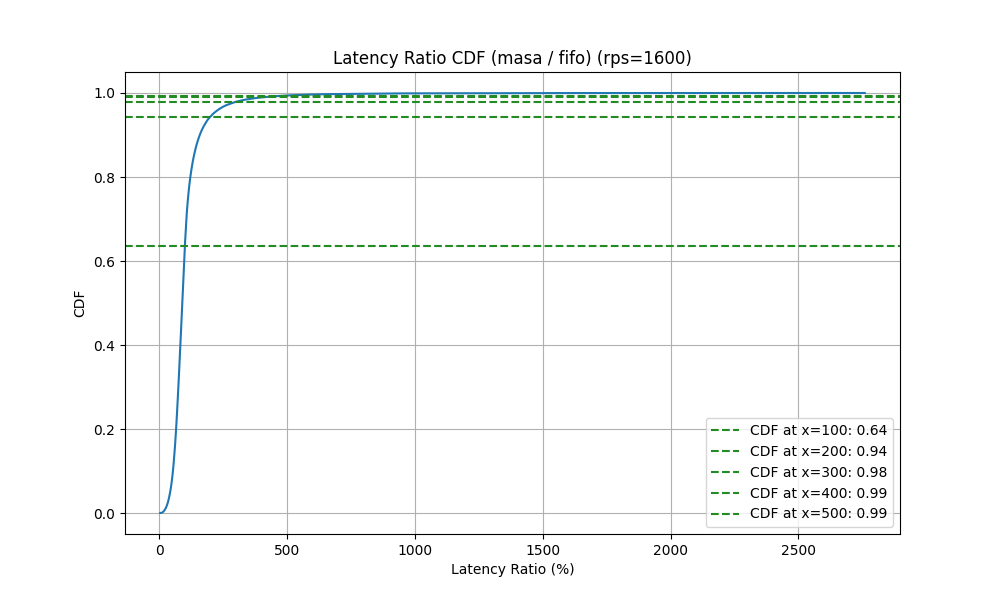
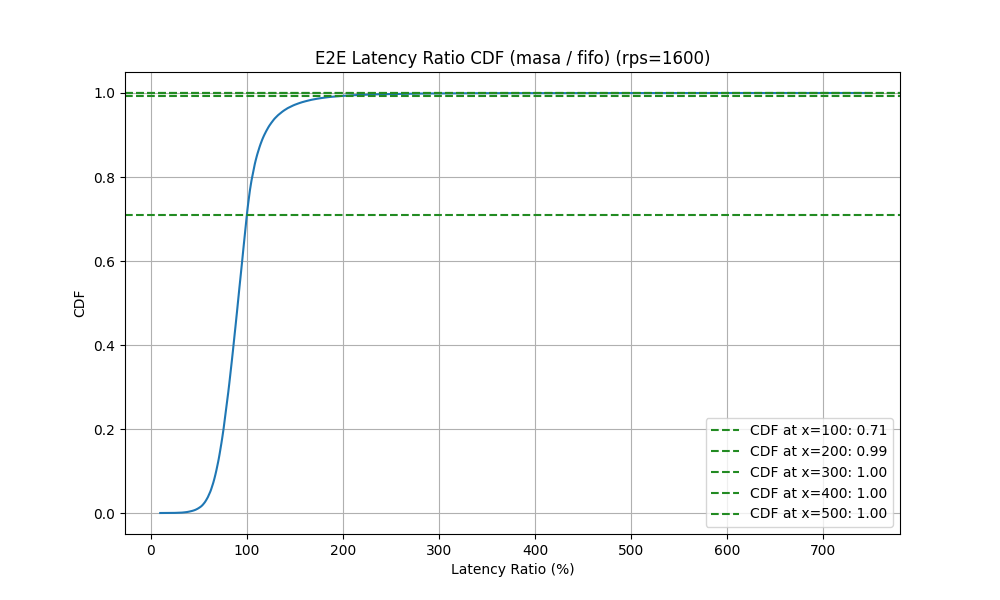
chore: Fix consistent request id in two modes

diff --git a/reboot/snippets/flat/plot_e2e.py b/reboot/snippets/flat/plot_e2e.py
@@ -7,14 +7,43 @@ import pandas as pd
 rps = 1600
 modes = ["masa", "fifo"]
 
-results: Dict[str, List[int]] = {"masa": [], "fifo": []}
-
+results_raw: Dict[str, List] = {}
 for mode in modes:
     file = f"r{rps}_{mode}.csv"
     df = pd.read_csv(file)
 
-    latencies = list(df["latency"])
-    results[mode] = latencies
+    spans: List[Dict] = []
+    for _, row in df.iterrows():
+        id = row["request_id"]
+        span = row["span"]
+        slo = row["slo"]
+        latency = row["latency"]
+        spans.append({"id": id, "span": span, "slo": slo, "latency": latency})
+    results_raw[mode] = spans
+
+ids_to_modes: Dict[int, List[str]] = {}
+for mode in modes:
+    spans = results_raw[mode]
+    for span in spans:
+        id = span["id"]
+        ids_to_modes.setdefault(id, []).append(mode)
+
+common_ids = set(
+    id for id, modes in ids_to_modes.items() if len(modes) == 2 and modes[0] != modes[1]
+)
+
+# [TODO] Output this to a separate binary.
+results_e2e: Dict[str, List[int]] = {"masa": [], "fifo": []}
+for mode in modes:
+    spans_filtered = []
+    spans = results_raw[mode]
+    for span in spans:
+        id = span["id"]
+        latency = span["latency"]
+        if id in common_ids:
+            spans_filtered.append((id, latency))
+    spans_filtered.sort(key=lambda x: x[0])
+    results_e2e[mode] = [x[1] for x in spans_filtered]
 
 
 def plot_cdf(results: Dict[str, List[int]], title: str, fig_name: str):
@@ -51,8 +80,9 @@ def plot_pdf(results: Dict[str, List[int]], title: str, fig_name: str):
     plt.show()
 
 
-plot_cdf(results, f"Latency CDF (rps={rps})", f"fig_e2e_cdf.png")
-plot_pdf(results, f"Latency PDF (rps={rps})", f"fig_e2e_pdf.png")
+plot_cdf(results_e2e, f"E2E Latency CDF (rps={rps})", f"fig_e2e_cdf.png")
+
+plot_pdf(results_e2e, f"E2E Latency PDF (rps={rps})", f"fig_e2e_pdf.png")
 
 
 def plot_ratio_cdf(results: List[float], title: str, fig_name: str):
@@ -102,17 +132,47 @@ def plot_ratio_pdf(results: List[float], title: str, fig_name: str):
 
 
 results_ratio: List[float] = []
-for i in range(len(results["masa"])):
-    results_ratio.append(results["masa"][i] * 100 / results["fifo"][i])
+for i in range(len(results_e2e["masa"])):
+    masa = results_e2e["masa"][i]
+    fifo = results_e2e["fifo"][i]
+    ratio = masa / fifo * 100
+    results_ratio.append(ratio)
 
 plot_ratio_cdf(
     results_ratio,
-    f"Latency Ratio CDF (masa / fifo) (rps={rps})",
+    f"E2E Latency Ratio CDF (masa / fifo) (rps={rps})",
     f"fig_e2e_ratio_cdf.png",
 )
 
 plot_ratio_pdf(
     results_ratio,
-    f"Latency Ratio PDF (masa / fifo) (rps={rps})",
+    f"E2E Latency Ratio PDF (masa / fifo) (rps={rps})",
     f"fig_e2e_ratio_pdf.png",
+)
+
+# [TODO] Plot a 2D histogram of masa vs fifo latencies.
+results_slower: Dict[str, List[int]] = {"masa": [], "fifo": []}
+results_faster: Dict[str, List[int]] = {"masa": [], "fifo": []}
+
+for i in range(len(results_e2e["masa"])):
+    masa = results_e2e["masa"][i]
+    fifo = results_e2e["fifo"][i]
+    if masa > fifo:
+        results_slower["masa"].append(masa)
+        results_slower["fifo"].append(fifo)
+    else:
+        results_faster["masa"].append(masa)
+        results_faster["fifo"].append(fifo)
+
+plot_cdf(
+    results_slower, f"E2E Slower Latency CDF (rps={rps})", f"fig_e2e_slower_cdf.png"
+)
+plot_pdf(
+    results_slower, f"E2E Slower Latency PDF (rps={rps})", f"fig_e2e_slower_pdf.png"
+)
+plot_cdf(
+    results_faster, f"E2E Faster Latency CDF (rps={rps})", f"fig_e2e_faster_cdf.png"
+)
+plot_pdf(
+    results_faster, f"E2E Faster Latency PDF (rps={rps})", f"fig_e2e_faster_pdf.png"
 )

diff --git a/reboot/snippets/flat/plot_queueing.py b/reboot/snippets/flat/plot_queueing.py
@@ -64,30 +64,31 @@ def plot_pdf(results: Dict[str, List[int]], title: str, fig_name: str):
     plt.show()
 
 
-results_second_hop_queueing: Dict[str, List[int]] = {"masa": [], "fifo": []}
-for mode in modes:
-    n_dp = 0
-    id_to_spans = results_raw[mode]
-    for id, spans in id_to_spans.items():
-        if len(spans) == 2:
-            n_dp += 1
-            # [NOTE] Depending on the definition of "latency" and "elapse".
-            # queueing_latency = spans[1]["latency"] - spans[1]["elapse"] - spans[0]["latency"]
-            queueing_latency = spans[1]["latency"] - spans[0]["latency"]
-            results_second_hop_queueing[mode].append(queueing_latency)
-    print(f"{mode}: {n_dp} data points")
+# results_second_hop_queueing: Dict[str, List[int]] = {"masa": [], "fifo": []}
+# for mode in modes:
+#     n_dp = 0
+#     id_to_spans = results_raw[mode]
+#     for id, spans in id_to_spans.items():
+#         if len(spans) == 2:
+#             n_dp += 1
+#             # [NOTE] Depending on the definition of "latency" and "elapse".
+#             # queueing_latency = spans[1]["latency"] - spans[1]["elapse"] - spans[0]["latency"]
+#             queueing_latency = spans[1]["latency"] - spans[0]["latency"]
+#             results_second_hop_queueing[mode].append(queueing_latency)
+#     pctl_dp = n_dp / len(id_to_spans)
+#     print(f"{mode}: {round(pctl_dp*100)}% data points")
 
-plot_cdf(
-    results_second_hop_queueing,
-    f"Queueing Latency at Second Hop (rps={rps})",
-    "fig_second_hop_queueing_cdf.png",
-)
+# plot_cdf(
+#     results_second_hop_queueing,
+#     f"Queueing Latency at Second Hop (rps={rps})",
+#     "fig_second_hop_queueing_cdf.png",
+# )
 
-plot_pdf(
-    results_second_hop_queueing,
-    f"Queueing Latency at Second Hop (rps={rps})",
-    "fig_second_hop_queueing_pdf.png",
-)
+# plot_pdf(
+#     results_second_hop_queueing,
+#     f"Queueing Latency at Second Hop (rps={rps})",
+#     "fig_second_hop_queueing_pdf.png",
+# )
 
 
 def plot_ratio_cdf(results: List[float], title: str, fig_name: str):
@@ -136,22 +137,21 @@ def plot_ratio_pdf(results: List[float], title: str, fig_name: str):
     plt.show()
 
 
-results_second_hop_queueing_ratio: List[float] = []
-for i in range(len(results_second_hop_queueing["masa"])):
-    results_second_hop_queueing_ratio.append(
-        results_second_hop_queueing["masa"][i]
-        * 100
-        / results_second_hop_queueing["fifo"][i]
-    )
+# results_second_hop_queueing_ratio: List[float] = []
+# for i in range(len(results_second_hop_queueing["masa"])):
+#     masa = results_second_hop_queueing["masa"][i]
+#     fifo = results_second_hop_queueing["fifo"][i]
+#     ratio = masa / fifo * 100
+#     results_second_hop_queueing_ratio.append(ratio)
 
-plot_ratio_cdf(
-    results_second_hop_queueing_ratio,
-    f"Queueing Latency Ratio at Second Hop (masa / fifo) (rps={rps})",
-    "fig_second_hop_queueing_ratio_cdf.png",
-)
+# plot_ratio_cdf(
+#     results_second_hop_queueing_ratio,
+#     f"Queueing Latency Ratio at Second Hop (masa / fifo) (rps={rps})",
+#     "fig_second_hop_queueing_ratio_cdf.png",
+# )
 
-plot_ratio_pdf(
-    results_second_hop_queueing_ratio,
-    f"Queueing Latency Ratio at Second Hop (masa / fifo) (rps={rps})",
-    "fig_second_hop_queueing_ratio_pdf.png",
-)
+# plot_ratio_pdf(
+#     results_second_hop_queueing_ratio,
+#     f"Queueing Latency Ratio at Second Hop (masa / fifo) (rps={rps})",
+#     "fig_second_hop_queueing_ratio_pdf.png",
+# )
